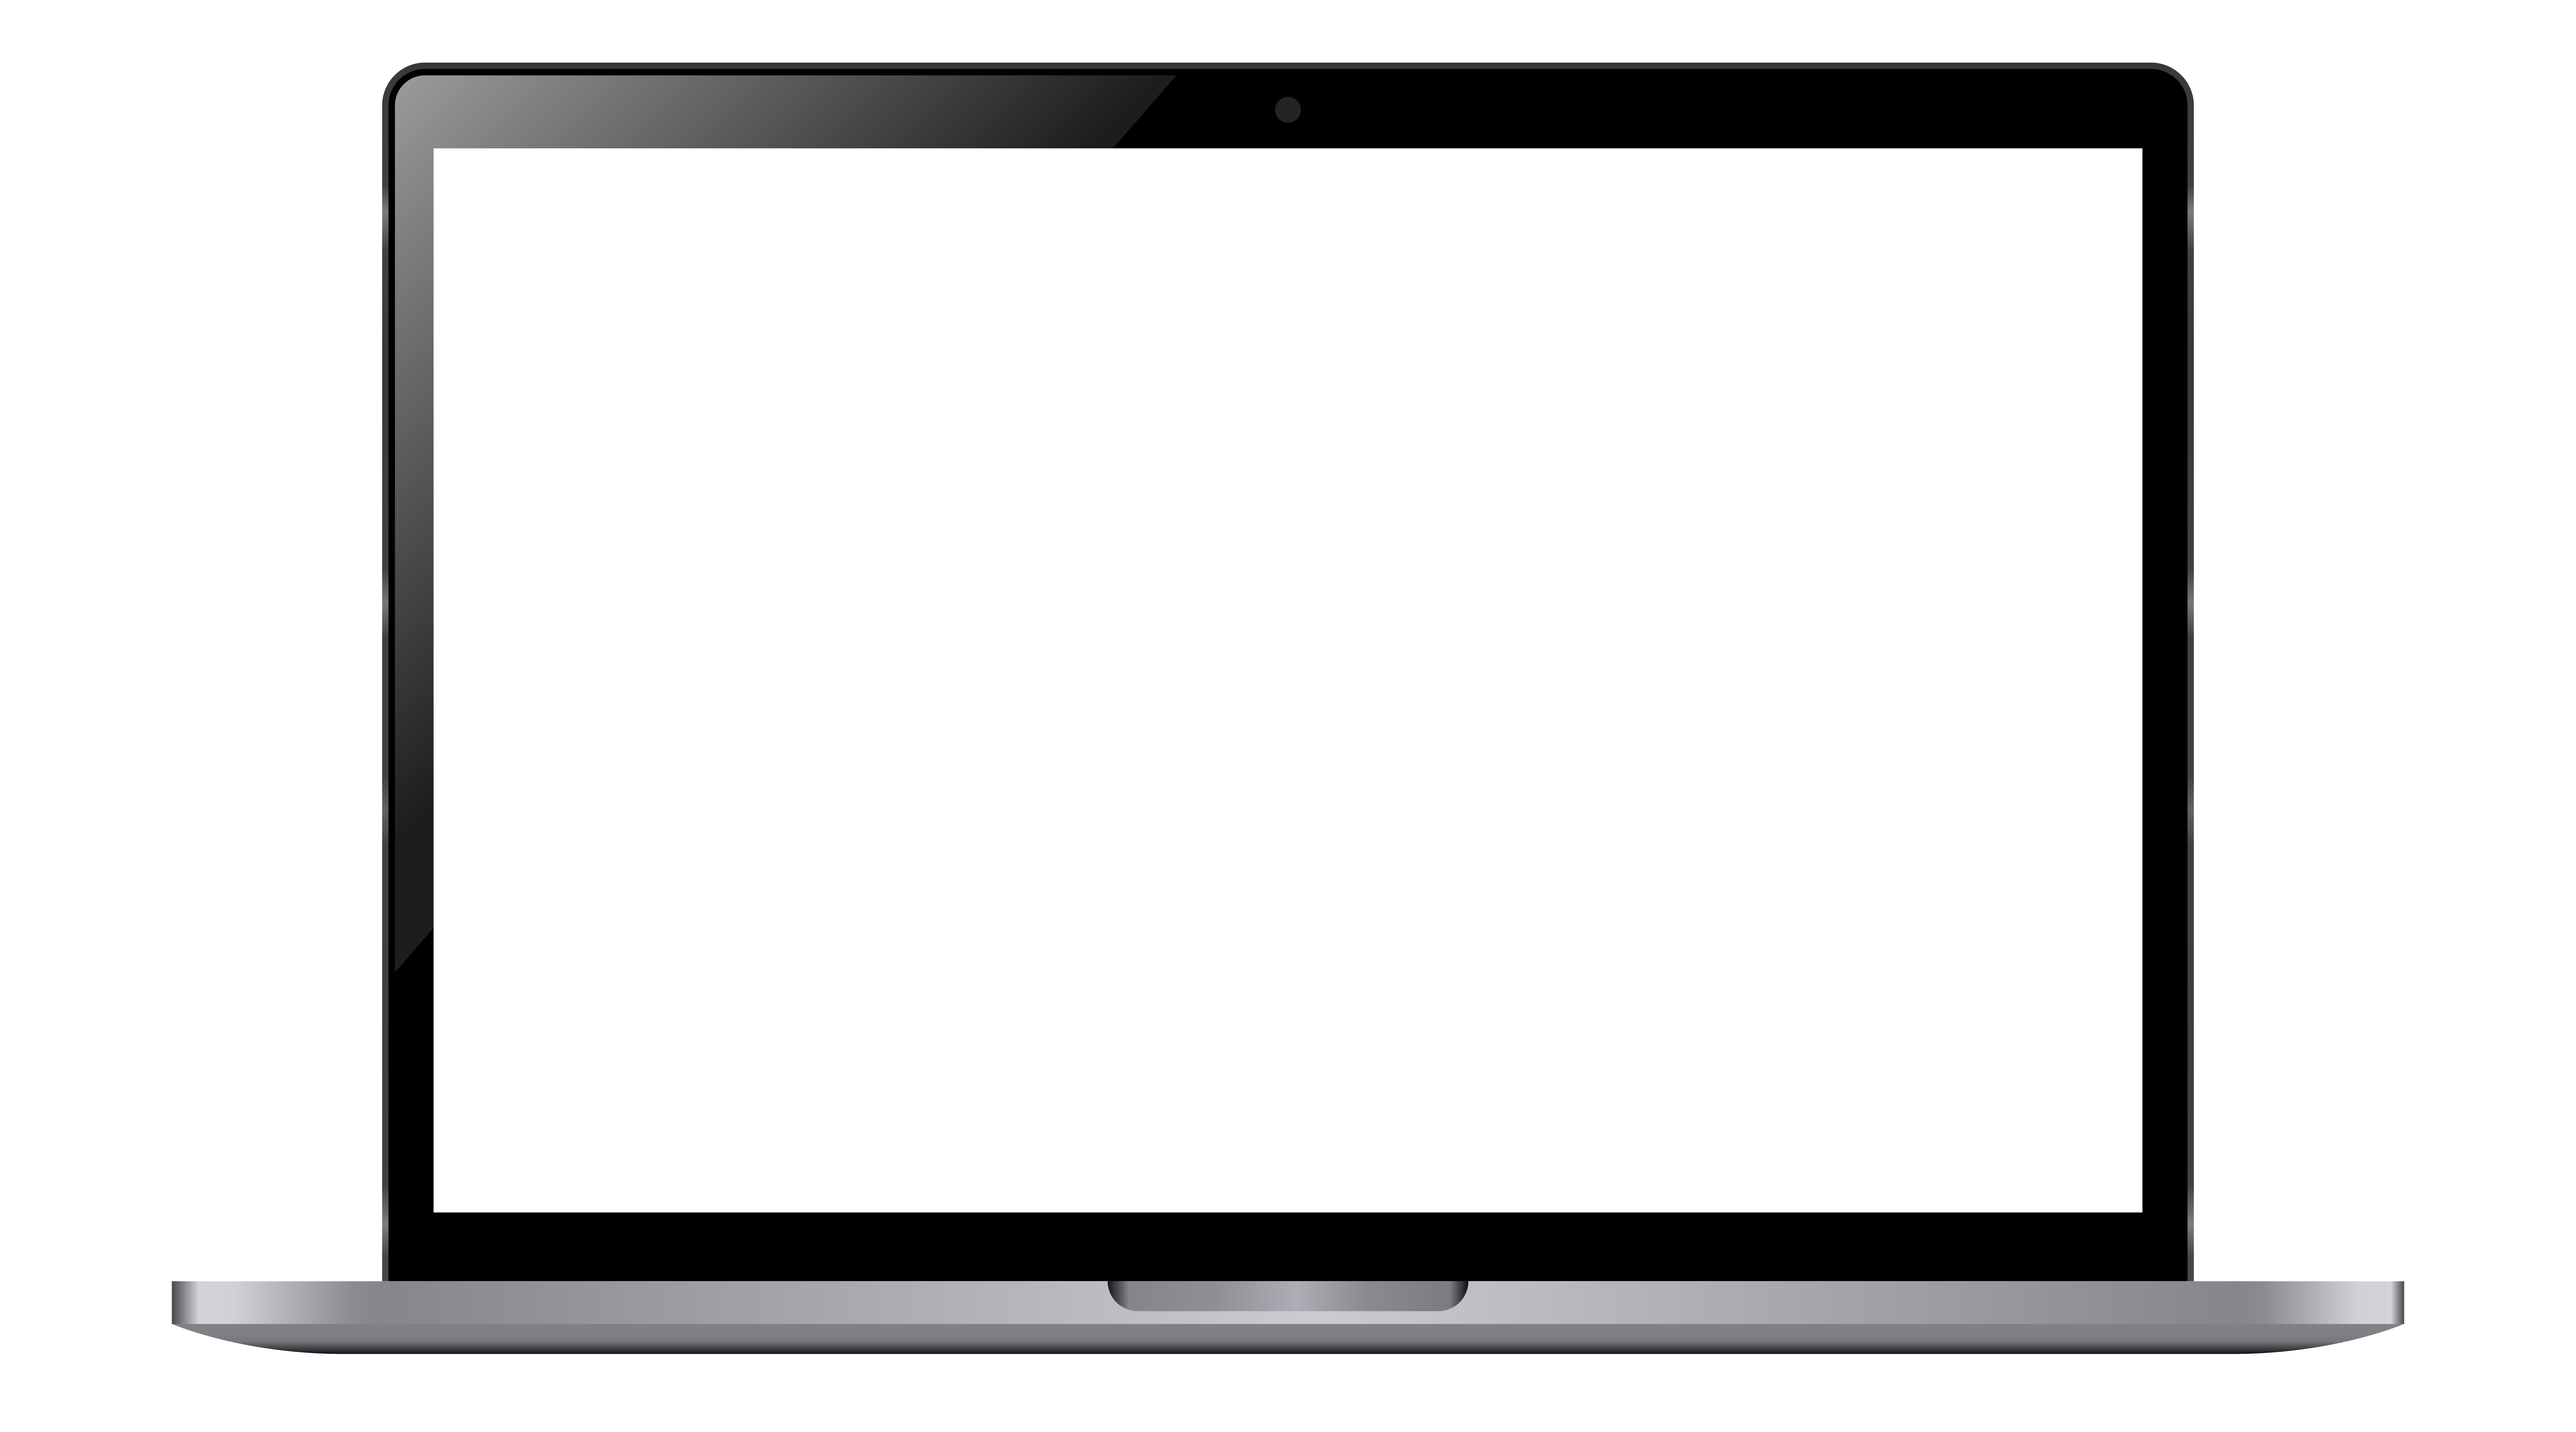
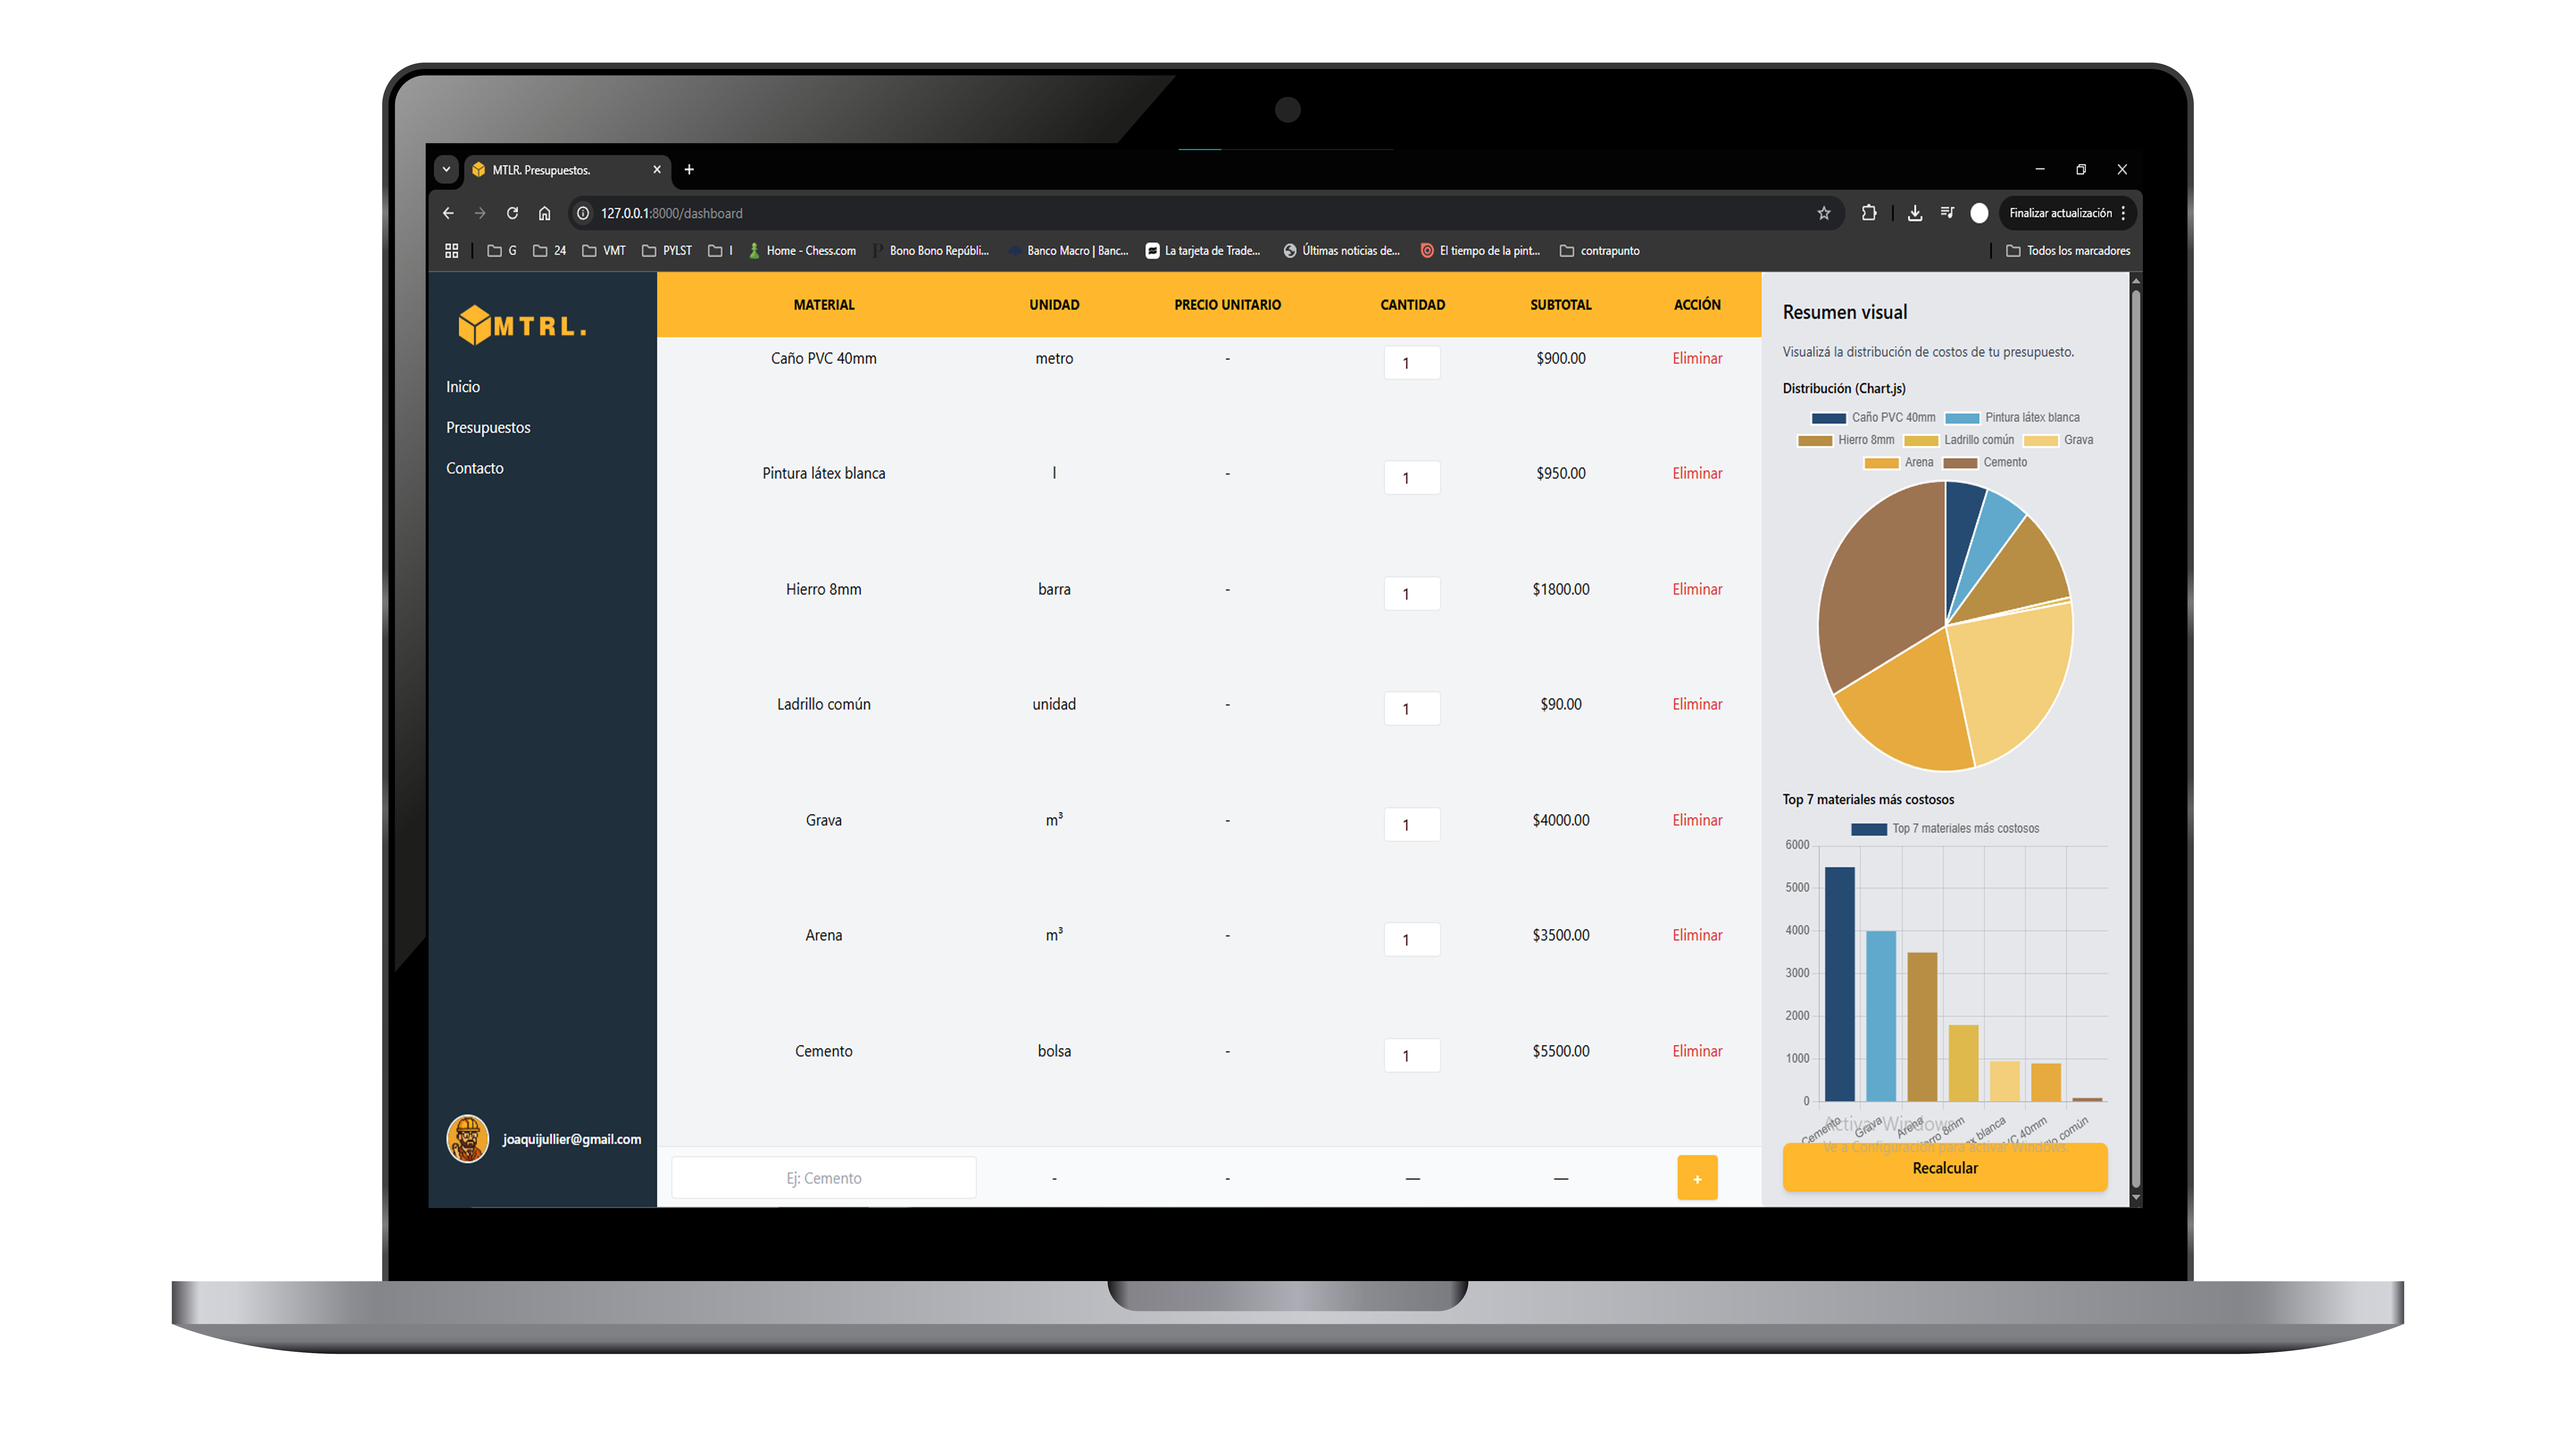
Charts implementation

diff --git a/templates/dashboard.html b/templates/dashboard.html
@@ -1,10 +1,16 @@
 <!DOCTYPE html>
 <html lang="es">
 <head>
+
   <title>MTLR. Presupuestos.</title>
   <meta charset="UTF-8">
+
   <script src="https://cdn.tailwindcss.com"></script>
+  <script type="module" src="/static/js/presupuestos.js"></script>
+  <script src="https://cdn.jsdelivr.net/npm/chart.js"></script>
+
   <link rel="shortcut icon" href="/static/favicon.ico" type="image/x-icon">
+
 </head>
 
 <body class="bg-gray-100 min-h-screen flex">
@@ -18,12 +24,7 @@
         class="w-full h-[64px] object-contain" />
   </div>
 
-  <!-- Encabezado de usuario -->
-  <div class="flex items-center space-x-4 mb-6">
-    <img id="user-photo" src="/static/images/default_avatar.png" alt="Avatar"
-        class="w-12 h-12 rounded-full object-cover border-2">
-    <h1 id="user-name" class="text-sm font-semibold text-white">Cargando usuario...</h1>
-  </div>
+
 
 
     <!-- Navegación principal -->
@@ -36,10 +37,12 @@
   <!-- Pie de sidebar -->
   <div class="flex flex-col space-y-4 mt-auto">
 
-    <button onclick="logout()"
-      class="bg-red-600 hover:bg-red-700 text-white px-4 py-2 rounded text-sm font-semibold">
-      Cerrar sesión
-    </button>
+      <!-- Encabezado de usuario -->
+    <div class="flex items-center space-x-4 mb-6">
+      <img id="user-photo" src="/static/images/default_avatar.png" alt="Avatar"
+          class="w-12 h-12 rounded-full object-cover border-2">
+      <h1 id="user-name" class="text-sm font-semibold text-white">Cargando usuario...</h1>
+    </div>
   </div>
 
   </aside>
@@ -104,14 +107,33 @@
       </table>
     </div>
 
-      <!-- Sección secundaria: Espacio adicional (1/4) -->
-      <div class="w-1/4 h-full bg-gray-200 rounded-lg p-6">
-      </div>
+  <!-- Sección secundaria: Espacio adicional (1/4) -->
+  <div class="w-1/4 bg-gray-200 rounded-lg p-6 flex flex-col space-y-4 relative min-h-[500px]">
 
+    <h2 class="text-xl font-semibold">Resumen visual</h2>
+    <p class="text-gray-700 text-sm">Visualizá la distribución de costos de tu presupuesto.</p>
+
+    <!-- Gráfico de torta -->
+    <div class="mt-4">
+      <h3 class="text-sm font-semibold mb-1">Distribución (Chart.js)</h3>
+      <canvas id="graficoChartJS" width="250" height="250"></canvas>
     </div>
 
-  </main>
+    <!-- Gráfico de barras (Top 75) -->
+    <div class="mt-4">
+      <h3 class="text-sm font-semibold mb-1">Top 7 materiales más costosos</h3>
+      <canvas id="graficoTop7ChartJS" width="250" height="250"></canvas>
+    </div>
 
-<script type="module" src="/static/js/presupuestos.js"></script>
+    <!-- Botón fijo al fondo derecho -->
+    <div class="absolute bottom-4 left-6 right-6">
+      <button onclick="renderizarGraficos(); renderizarTop7();"
+              class="w-full bg-[#FFB72D] hover:bg-yellow-400 text-black px-4 py-3 rounded-lg font-semibold shadow-md">
+        Recalcular
+      </button>
+    </div>
+
+
+
 </body>
 </html>

diff --git a/templates/presupuestos_corregido.js b/templates/presupuestos_corregido.js
@@ -1,3 +1,4 @@
+
 console.log("✅ presupuestos.js cargado correctamente");
 
 let chartDistribucion = null;

diff --git a/README.md b/README.md
@@ -1,94 +1,83 @@
-# MTRL 🔐📐
 
-MTRL es una aplicación web desarrollada con **FastAPI** que permite manejar presupuestos de forma segura mediante autenticación con **Firebase**. Está pensada como base para un sistema moderno de presupuestado en arquitectura o construcción.
+# MTRL Web Service App
 
----
-
-## 🛠 Tecnologías utilizadas
-
-- **FastAPI** – Backend moderno y rápido
-- **Firebase Authentication** – Login de usuarios con Google u otros métodos
-- **Firebase Admin SDK** – Verificación de tokens en el backend
-- **Jinja2** – Motor de plantillas para HTML
-- **HTML + Tailwind CSS** – Interfaz simple y personalizable
+Una aplicación web desarrollada para gestionar presupuestos de materiales de construcción, con autenticación de usuarios mediante Firebase, visualización interactiva de datos y diseño moderno utilizando Tailwind CSS.
 
 ---
 
-## 🚀 Funcionalidades
+## 🚀 Características principales
 
-- 🔒 Login seguro usando Firebase (Google Auth y más)
-- 🔐 Protección de páginas (como `/presupuestos`) solo para usuarios autenticados
-- 🧪 Middleware que valida el token JWT con Firebase
-- ⚙ Carga de variables de entorno desde `.env`
-
----
-
-## 📁 Estructura de carpetas
-
-MTRL/
-├── backend/
-│ ├── main.py # App principal
-│ └── firebase_credentials.json
-├── static/ # Archivos CSS, JS
-├── templates/
-│ ├── login.html # Página de login
-│ └── presupuestos.html # Página protegida
-├── .env # Variables de entorno
-└── requirements.txt # Dependencias
-
+- 🔐 **Autenticación de usuarios** con Firebase (login/registro/logout)
+- 🧱 **Carga dinámica de materiales** con autocompletado inteligente
+- 📊 **Visualización de presupuesto** con gráficos interactivos (Chart.js y Plotly)
+- 💾 **Guardado automático** de presupuestos por usuario en Firestore
+- 🎨 Estética basada en paleta de colores inspirada en Van Gogh
 
 ---
 
-## 🔐 Configuración
+## 🧪 Tecnologías utilizadas
 
-1. **Clona el repositorio:**
+- **Frontend:** HTML, Tailwind CSS, JavaScript (modular)
+- **Gráficos:** [Chart.js](https://www.chartjs.org/), [Plotly.js](https://plotly.com/javascript/)
+- **Backend (Auth/DB):** Firebase Authentication + Firestore
+
+---
+
+## ⚙ Instalación y ejecución
+
+1. Cloná este repositorio:
+
 ```bash
-git clone https://github.com/JullierJoaquin/MTRL.git
-cd MTRL
+git clone https://github.com/tu-usuario/MTRL_web_service_app.git
+cd MTRL_web_service_app
 ```
 
-2. Agrega tus credenciales de Firebase:
+2. Serví el frontend con tu herramienta preferida:
 
-    Descarga tu archivo JSON desde Firebase Console
-    Guárdalo en backend/firebase_credentials.json
-    
+- Usando Python (por ejemplo con Flask o FastAPI)
+- Servidor local simple:
 
-3. Crea un archivo .env:
 ```bash
-SECRET_KEY=clave_super_segura_generada
-FIREBASE_CREDENTIALS=backend/firebase_credentials.json
+python3 -m http.server
 ```
 
-4. Instala las dependencias:
-```bash
-pip install -r requirements.txt
-```
-
-
-5. Inicia el servidor:
-```bash
-uvicorn backend.main:app --reload
-```
-
-
-- Panel de usuarios: `/users/me`
-
-Próximamente:
-- Recuperación de contraseña
-- Control de sesiones
-- Soporte para guardar presupuestos
-- Registro de nuevos usuarios en base de datos
-- Exportación de reportes a PDF / Excel
-- Panel de administración
+3. Configurá tu archivo `firebase-config.js` con las claves de tu proyecto Firebase.
 
 ---
 
-## 🤝 Licencia
+## 📁 Estructura del proyecto
 
-Este proyecto está bajo licencia MIT. Libre para usar y modificar con atribución.
+```
+/static/
+  ├── js/
+  │    ├── presupuestos.js
+  │    └── firebase-config.js
+  ├── css/
+  │    └── login.css
+  └── images/
+       └── logoteca.png, default_avatar.png
+
+/templates/
+  ├── dashboard.html
+  └── login.html
+
+main.py (si usás un backend como FastAPI)
+```
 
 ---
 
-## 📬 ¿Sugerencias o ideas?
+## 📊 Capturas
 
-¡Abrí un issue o escribime! Toda colaboración es bienvenida.
+![Dashboard](./screenshots/dashboard.png)
+
+---
+
+## 📬 Contribuciones
+
+¡Toda mejora o sugerencia es bienvenida! Podés abrir un issue o un pull request.
+
+---
+
+## 📄 Licencia
+
+Este proyecto está bajo la licencia MIT.
